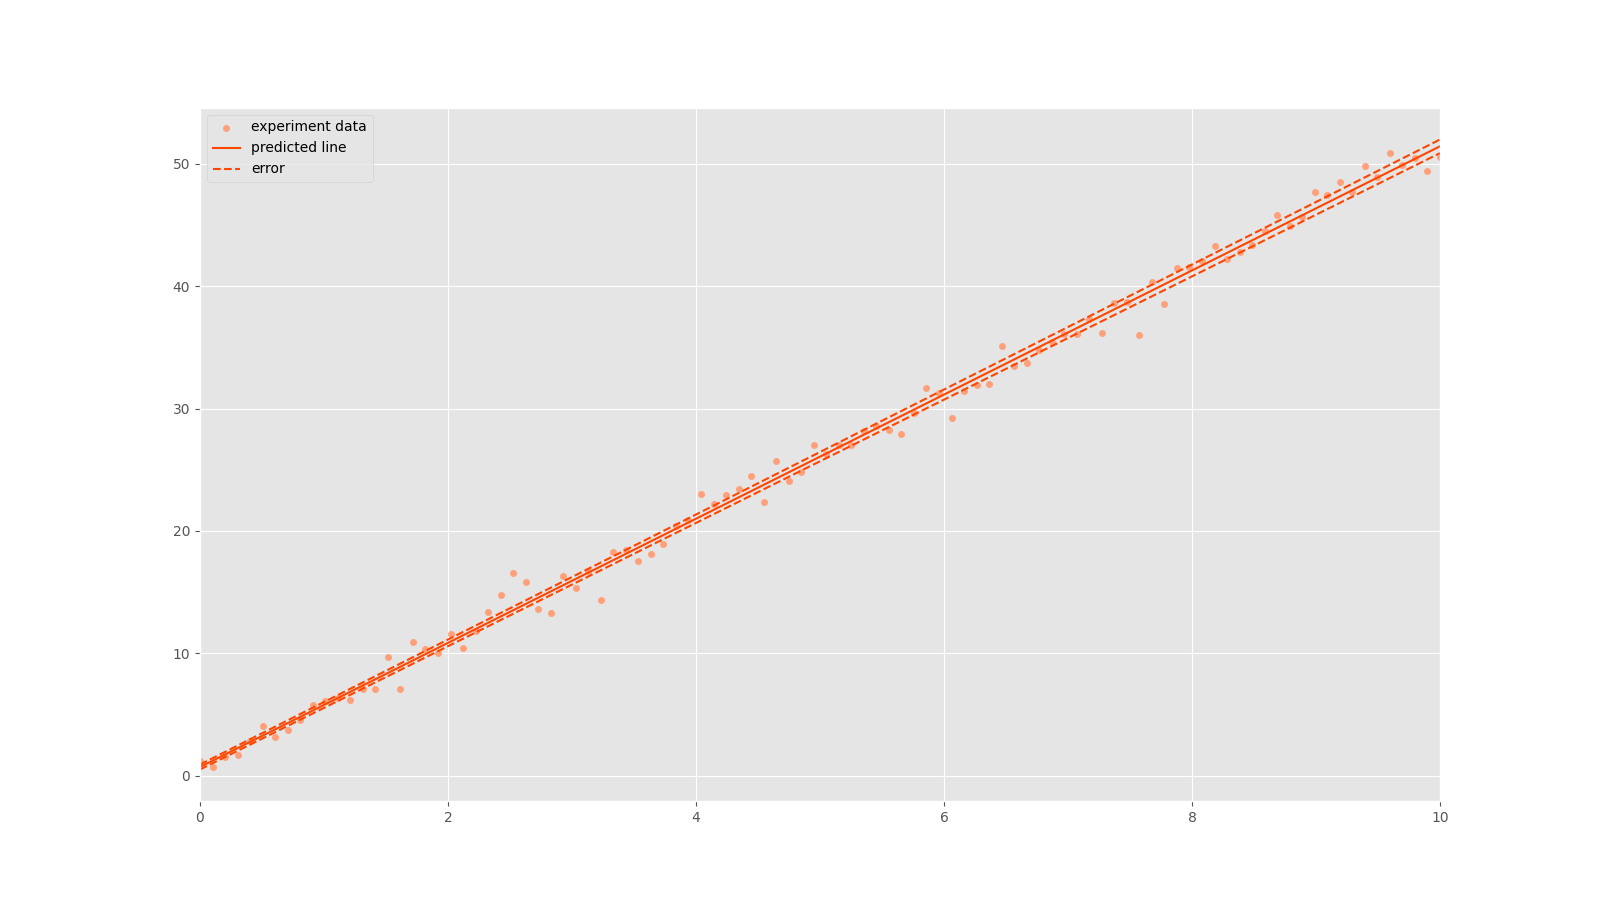
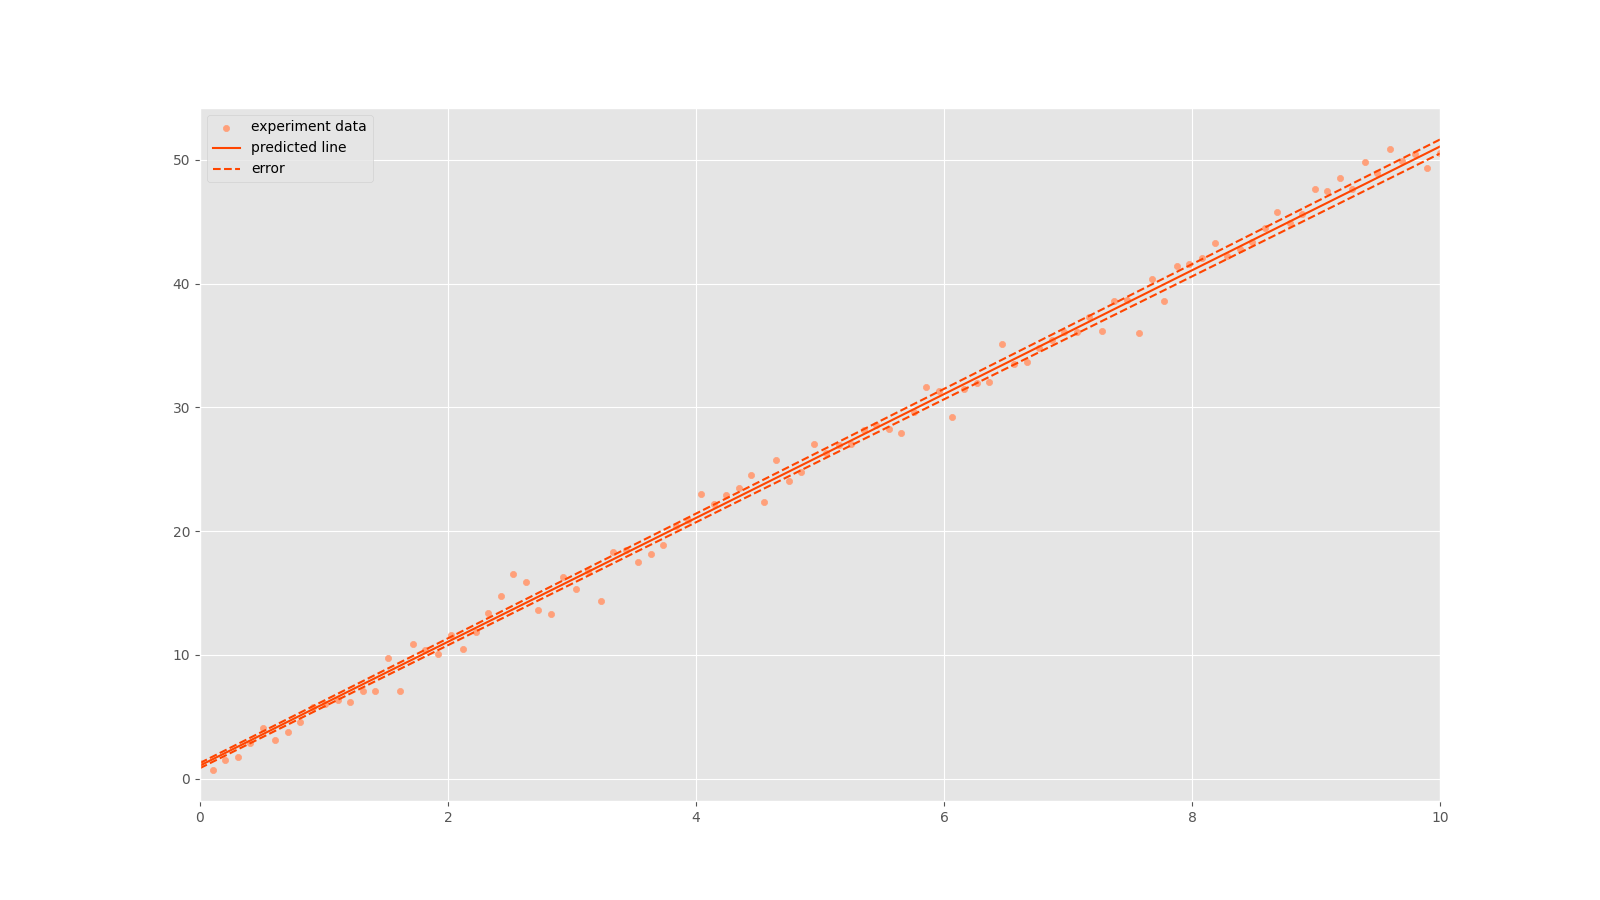
last version

diff --git a/homeworks/hw1/lsm_project/lsm/functions.py b/homeworks/hw1/lsm_project/lsm/functions.py
@@ -34,18 +34,14 @@ def get_lsm_description(
     """
 
     global event_logger
-
+    #проверки
     if not (type(list(abscissa)) is list and type(list(ordinates)) is list):
         raise TypeError
-
     if not (_is_valid_measurments(abscissa) and
             _is_valid_measurments(ordinates)):
         raise ValueError
-
     if len(abscissa) != len(ordinates):
-        abscissa, ordinates = \
-            _process_mismatch(abscissa, ordinates, mismatch_strategy)
-
+        abscissa, ordinates = _process_mismatch(abscissa, ordinates, mismatch_strategy)
     return _get_lsm_description(abscissa, ordinates)
 
 
@@ -62,22 +58,24 @@ def get_lsm_lines(
 
     :return: структура типа LSMLines
     """
-    if lsm_description is None:
-        lsm_description = get_lsm_description(abscissa, ordinates)
-    if type(lsm_description) is not LSMDescription:
+    a = lsm_description
+    if a is None:
+        a = get_lsm_description(abscissa, ordinates)
+    #проверки
+    if type(a) is not LSMDescription:
         raise TypeError
-    line_predicted = [(lsm_description.incline*x + lsm_description.shift) for x in abscissa]
-    line_above = [((lsm_description.incline+lsm_description.incline_error)*x +
-                   lsm_description.shift + lsm_description.shift_error) for x in abscissa]
-    line_under = [((lsm_description.incline-lsm_description.incline_error)*x +
-                   lsm_description.shift - lsm_description.shift_error) for x in abscissa]
+    pr1 = [(a.incline * i + a.shift) for i in abscissa]
+    pr2 = [((a.incline + a.incline_error) * j +
+                   a.shift + a.shift_error) for j in abscissa]
+    pr3 = [((a.incline - a.incline_error) * _ +
+                   a.shift - a.shift_error) for _ in abscissa]
 
     return LSMLines(
         abscissa=abscissa,
         ordinates=ordinates,
-        line_predicted=line_predicted,
-        line_above=line_above,
-        line_under=line_under
+        line_predicted=pr1,
+        line_above=pr2,
+        line_under=pr3
     )
 
 
@@ -94,14 +92,14 @@ def get_report(
     """
     global PRECISION
 
+    a = lsm_description
     report = '\n'.join([
-        "="*40 + "LSM computing result" + "="*40 + "\n",
-        "[INFO]: incline: " + f'{lsm_description.incline:.{PRECISION}f}' + ";",
-        "[INFO]: shift: " + f'{lsm_description.shift:.{PRECISION}f}' + ";",
-        "[INFO]: incline error: " + f'{lsm_description.incline_error:.{PRECISION}f}' + ";",
-        "[INFO]: shift error: " + f'{lsm_description.shift_error:.{PRECISION}f}' + ";",
-        "\n" + "="*100
-    ])
+        "=" * 40 + "LSM computing result" + "=" * 40 + "\n",
+        "[INFO]: incline: " + f'{a.incline:.{PRECISION}f}' + ";",
+        "[INFO]: shift: " + f'{a.shift:.{PRECISION}f}' + ";",
+        "[INFO]: incline error: " + f'{a.incline_error:.{PRECISION}f}' + ";",
+        "[INFO]: shift error: " + f'{a.shift_error:.{PRECISION}f}' + ";",
+        "\n" + "=" * 100])
 
     if path_to_save != "":
         with open(path_to_save, 'w', encoding='utf-8') as f:
@@ -111,9 +109,8 @@ def get_report(
 
 # служебная функция для валидации
 def _is_valid_measurments(measurments: list[float]) -> bool:
-    if not (all(isinstance(i, Real) for i in measurments)):
-        return False
-    if len(measurments) <= 2:
+    m = measurments
+    if (not (all(isinstance(i, Real) for i in m))) or (len(m) <= 2):
         return False
     return True
 
@@ -145,22 +142,22 @@ def _get_lsm_description(
 ) -> LSMDescription:
     global event_logger, PRECISION
 
-    n = len(abscissa)
-    x = sum(abscissa) / n
-    y = sum(ordinates) / n
-    xy = sum(abscissa[i] * ordinates[i] for i in range(n)) / n
-    x2 = sum(i ** 2 for i in abscissa) / n
+    a = len(abscissa)
+    sm1 = sum(abscissa) / a
+    sm2 = sum(ordinates) / a
+    smxy = sum(abscissa[i] * ordinates[i] for i in range(a)) / a
+    smx = sum(i ** 2 for i in abscissa) / a
 
-    a = (xy - x * y) / (x2 - x ** 2)
-    b = y - a * x
+    otv1 = int((smxy - sm1 * sm2) / (smx - sm1 ** 2))
+    otv2 = sm2 - otv1 * sm1
 
-    sigma_y2 = sum((ordinates[i] - a*abscissa[i] - b)**2 for i in range(n)) / (n - 2)
-    sigma_a2 = sigma_y2 / (n * (x2 - x ** 2))
-    sigma_b2 = (sigma_y2 * x2) / (n * (x2 - x ** 2))
-
+    sigma_y2 = sum((ordinates[i] - otv1 * abscissa[i] - otv2) ** 2
+                   for i in range(a)) / (a - 2)
+    sigma_x = (sigma_y2 / ((smx - sm1 ** 2) * a)) ** 0.5
+    sigma_y = ((sigma_y2 * smx) / ((smx - sm1 ** 2) * a)) ** 0.5
     return LSMDescription(
-        incline=a,
-        shift=b,
-        incline_error=sigma_a2**0.5,
-        shift_error=sigma_b2**0.5
+        incline=otv1,
+        shift=otv2,
+        incline_error=sigma_x,
+        shift_error=sigma_y
     )
